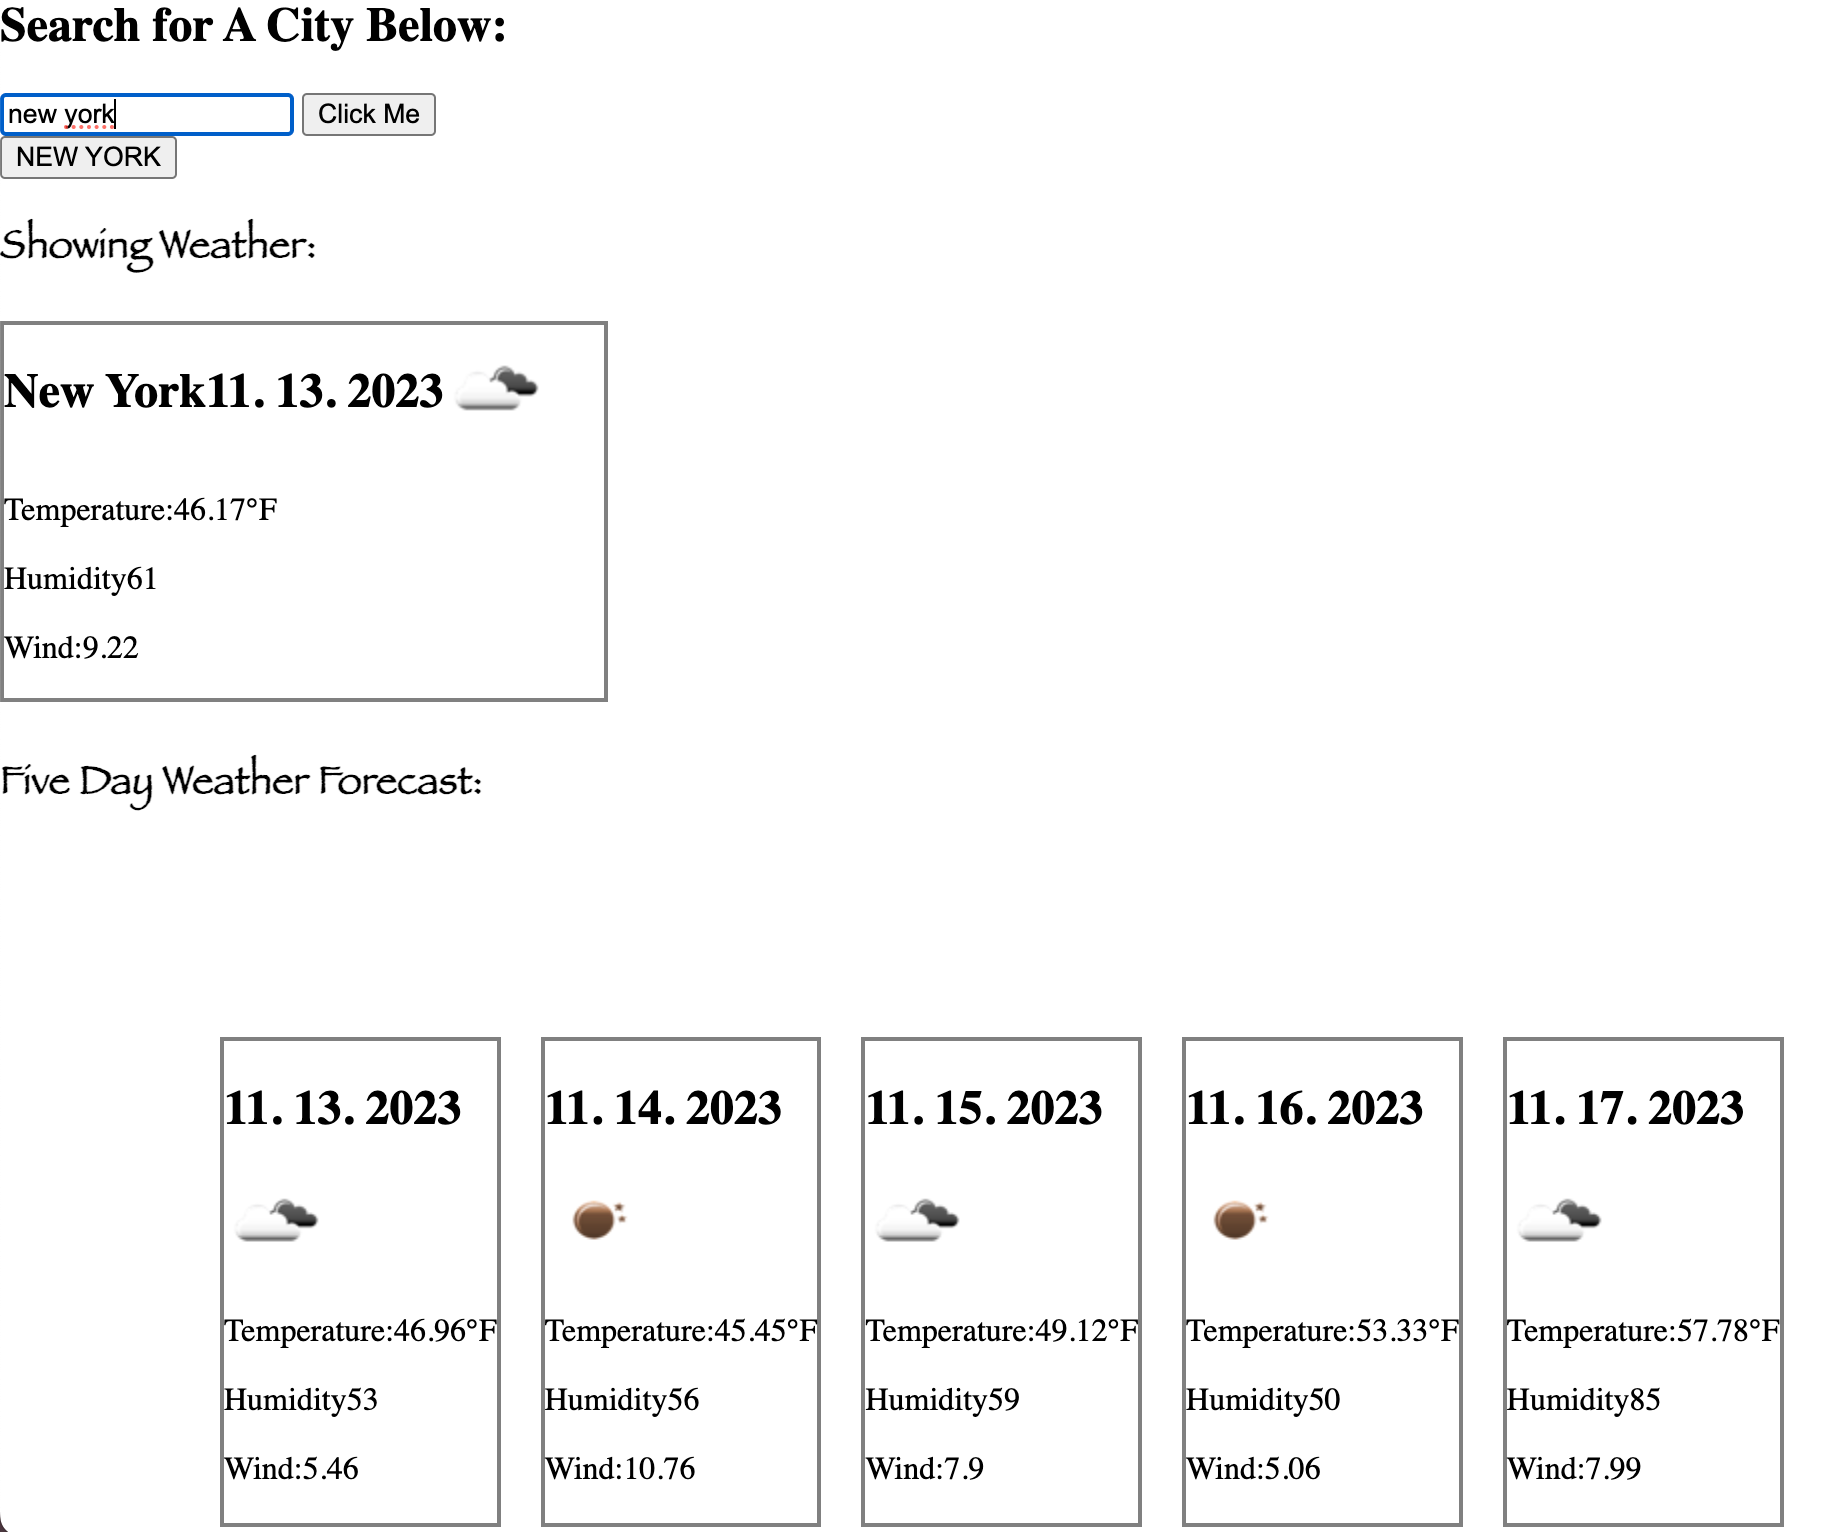
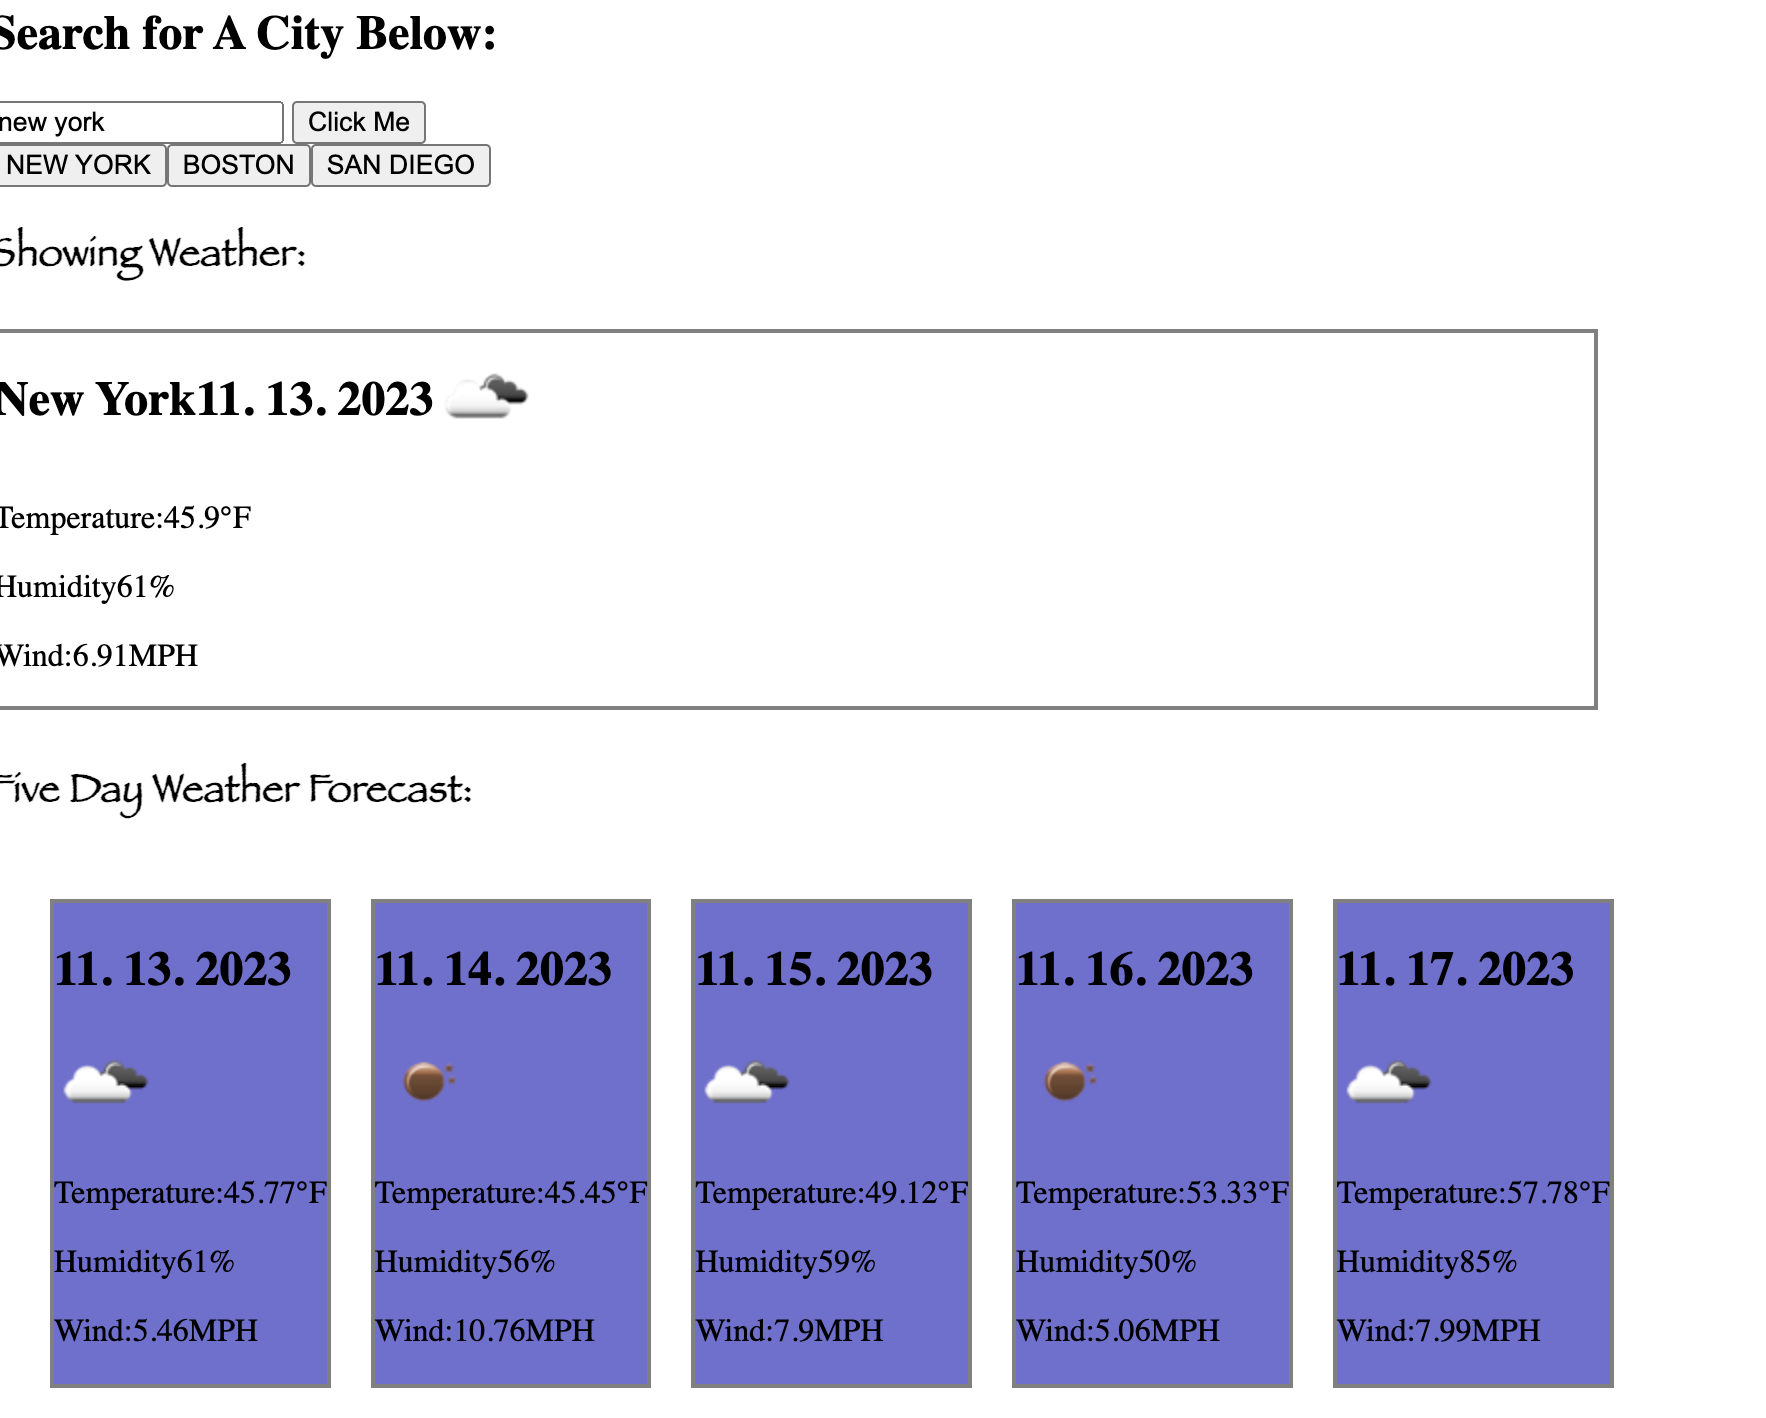
added images and MPH/% in js

diff --git a/assets/script.js b/assets/script.js
@@ -46,8 +46,8 @@ function renderCurrentWeather(data) {
     // Extract icon, humidity, temp and windSpeed data from the API
     Icon.src = `http://openweathermap.org/img/w/${data.weather[0].icon}.png`
     Temp.textContent = 'Temperature:' + data.main.temp + '°F'
-    Humidity.textContent = 'Humidity' + data.main.humidity
-    windSpeed.textContent = 'Wind:' + data.wind.speed
+    Humidity.textContent = 'Humidity' + data.main.humidity + '%'
+    windSpeed.textContent = 'Wind:' + data.wind.speed + 'MPH'
 
     currentWeatherHeader.style.display = 'flex'
     currentWeatherHeader.style.alignItems = 'center'
@@ -93,8 +93,8 @@ function renderFiveDayForecast(forecastData) {
         // console.log("is the icon there " + dailyData.weather[0].icon)
         Icon.src = `http://openweathermap.org/img/w/${dailyData.weather[0].icon}.png`
         Temp.textContent = 'Temperature:' + dailyData.main.temp + '°F'
-        Humidity.textContent = 'Humidity' + dailyData.main.humidity
-        windSpeed.textContent = 'Wind:' + dailyData.wind.speed
+        Humidity.textContent = 'Humidity' + dailyData.main.humidity + '%'
+        windSpeed.textContent = 'Wind:' + dailyData.wind.speed + 'MPH'
 
         // Created a div and appended the elements to that div 
         weatherContainer.append(dateEl, Icon, Temp, Humidity, windSpeed)

diff --git a/assets/css/style.css b/assets/css/style.css
@@ -17,22 +17,21 @@ h3, h4 {
 #weather-container {
     border: 2px solid grey;
     text-wrap: wrap;
-    width: 300px;
+    width: 800px;
     
 }
 
 .forecast {
     display: flex;
     flex-direction: row;
-    margin: 100px;
-
-
+    margin: 20px;
 }
 
 /* added a border to each day's weather in the forecast */
 .forecast div {
     border: 2px solid grey;
     margin: 10px;
+    background-color: rgb(111, 111, 207);
 }
 .forecast img {
     width: 50px;
